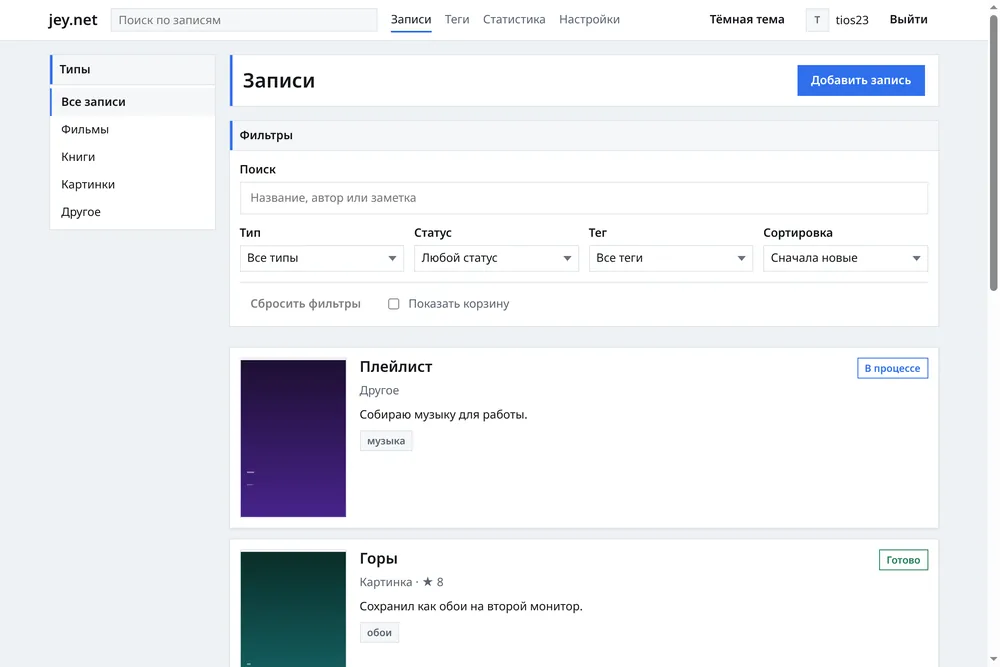
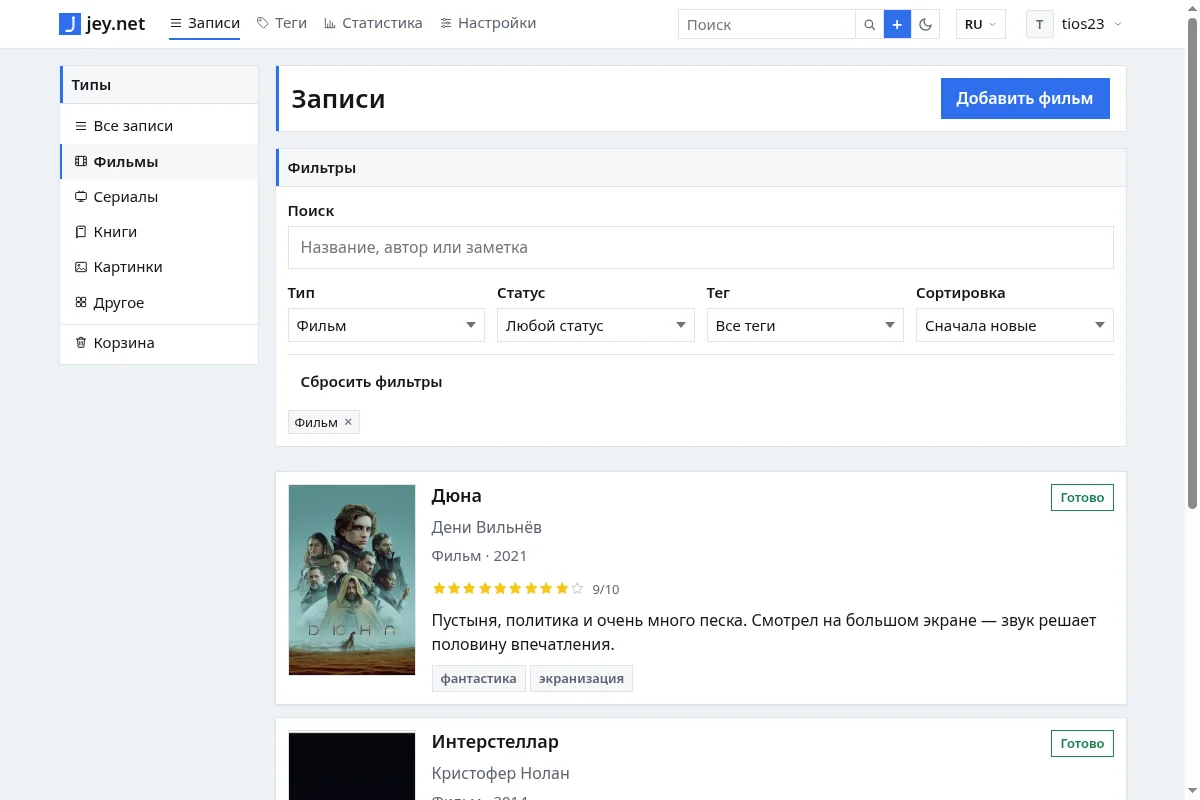
feat(ui): refresh landing screenshots and social image

diff --git a/frontend/app/(public)/page.tsx b/frontend/app/(public)/page.tsx
@@ -19,7 +19,24 @@ export async function generateMetadata(): Promise<Metadata> {
       canonical: "/",
       languages: languageAlternates("/"),
     },
-    openGraph: { title, description },
+    openGraph: {
+      title,
+      description,
+      images: [
+        {
+          url: "/og.png",
+          width: 1200,
+          height: 630,
+          alt: "jey.net — личный каталог",
+        },
+      ],
+    },
+    twitter: {
+      card: "summary_large_image",
+      title,
+      description,
+      images: ["/og.png"],
+    },
   };
 }
 
@@ -31,9 +48,9 @@ const FEATURE_KEYS: Array<{ title: TranslationKey; text: TranslationKey }> = [
 ];
 
 const SCREENSHOT_KEYS = [
-  { src: "/screenshots/items.webp", alt: "landing.shot1.alt", caption: "landing.shot1.caption", width: 1000, height: 667 },
-  { src: "/screenshots/item.webp", alt: "landing.shot2.alt", caption: "landing.shot2.caption", width: 1000, height: 667 },
-  { src: "/screenshots/profile.webp", alt: "landing.shot3.alt", caption: "landing.shot3.caption", width: 1000, height: 667 },
+  { src: "/screenshots/items.webp", alt: "landing.shot1.alt", caption: "landing.shot1.caption", width: 1200, height: 800 },
+  { src: "/screenshots/item.webp", alt: "landing.shot2.alt", caption: "landing.shot2.caption", width: 1200, height: 800 },
+  { src: "/screenshots/profile.webp", alt: "landing.shot3.alt", caption: "landing.shot3.caption", width: 1200, height: 800 },
 ] as const;
 
 export default async function LandingPage() {

diff --git a/frontend/app/(public)/u/[id]/page.tsx b/frontend/app/(public)/u/[id]/page.tsx
@@ -41,12 +41,17 @@ export async function generateMetadata({
       title: profile.display_name,
       description,
       url: `/u/${id}`,
-      images: profile.avatar_key ? [`/media/${profile.avatar_key}`] : undefined,
+      images: profile.avatar_key
+        ? [`/media/${profile.avatar_key}`]
+        : ["/og.png"],
     },
     twitter: {
-      card: "summary",
+      card: profile.avatar_key ? "summary" : "summary_large_image",
       title: profile.display_name,
       description,
+      images: profile.avatar_key
+        ? [`/media/${profile.avatar_key}`]
+        : ["/og.png"],
     },
   };
 }

diff --git a/frontend/app/layout.tsx b/frontend/app/layout.tsx
@@ -31,8 +31,21 @@ export async function generateMetadata(): Promise<Metadata> {
       locale: ogLocale,
       title,
       description,
+      images: [
+        {
+          url: "/og.png",
+          width: 1200,
+          height: 630,
+          alt: "jey.net — личный каталог фильмов, сериалов и книг",
+        },
+      ],
     },
-    twitter: { card: "summary", title, description },
+    twitter: {
+      card: "summary_large_image",
+      title,
+      description,
+      images: ["/og.png"],
+    },
     robots: { index: true, follow: true },
   };
 }

diff --git a/frontend/app/(public)/u/[id]/[itemId]/page.tsx b/frontend/app/(public)/u/[id]/[itemId]/page.tsx
@@ -58,7 +58,17 @@ export async function generateMetadata({
       title: displayTitle,
       description,
       url: `/u/${id}/${itemId}`,
-      images: item.cover_key ? [`/media/${item.cover_key}`] : undefined,
+      images: item.cover_key
+        ? [`/media/${item.cover_key}`]
+        : ["/og.png"],
+    },
+    twitter: {
+      card: item.cover_key ? "summary" : "summary_large_image",
+      title: displayTitle,
+      description,
+      images: item.cover_key
+        ? [`/media/${item.cover_key}`]
+        : ["/og.png"],
     },
   };
 }
